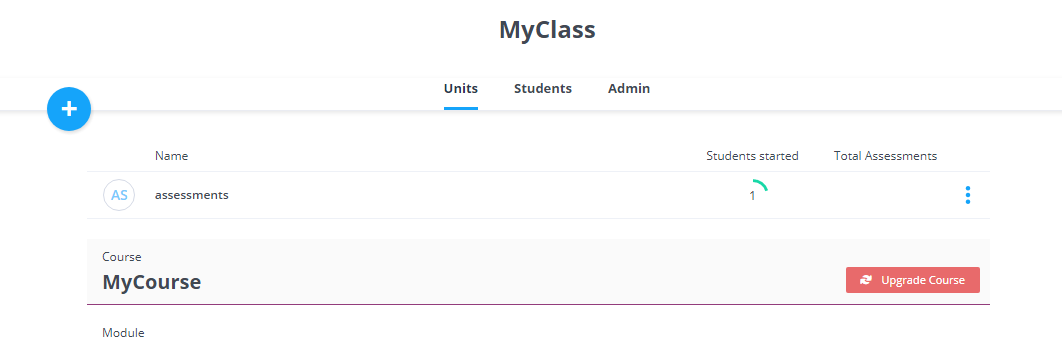
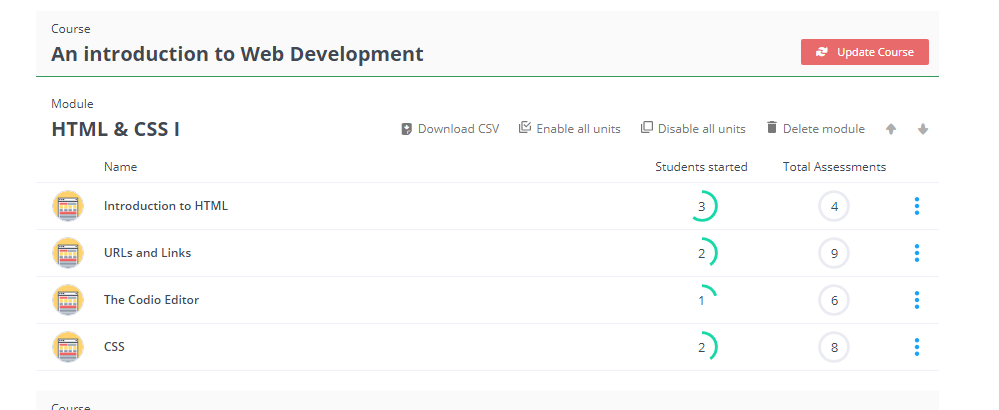
changelog #10082 #10092 #10335 #10336

diff --git a/source/docs/classes/unitmanagement/upgradecourse.html.md b/source/docs/classes/unitmanagement/upgradecourse.html.md
@@ -1,13 +1,13 @@
 ---
-title: Upgrade course
+title: Update course
 description: ""
 class_name: docs
 full_width: true
 ---
 
-If any updates to a course used in your class are detected, you can upgrade the unit to the latest version from the **Upgrade Course** button. The code workspace, other than the guides folder, is never updated as this can invalidate work for students who have already started the unit.
+If any updates to a course used in your class are detected, you can upgrade the unit to the latest version from the **Update Course** button. The code workspace, other than the guides folder, is never updated as this can invalidate work for students who have already started the unit.
 
-<img alt="Upgrade Course" src="/img/docs/class_administration/upgradecourse.png" class="simple"/>
+<img alt="Update Course" src="/img/docs/class_administration/upgradecourse.png" class="simple"/>
 
 Updates may be new units added to the course, a new version of the stack, updates for assessments in a guide or book, changes to the general guide content or a change in the order of units in the course. 
 
@@ -17,13 +17,13 @@ Most assessment changes can be safely upgraded but if you have altered the struc
 
 Any changes to guides content can be applied. You should be careful about making major structural changes as students who have already started the unit could be confused. The code workspace folder will not be impacted, so any student work in this folder will not be impacted.
 
-### Select units to upgrade
-A list of all modified units will be shown. You can select the units you wish to update. The **Upgrade Course** button will no longer be shown if updates have already been applied.
+### Select units to update
+A list of all modified units will be shown. You can select the units you wish to update. The **Update Course** button will no longer be shown if updates have already been applied.
 
 ### Stack updates
-If updates to the stack are detected and students have already started the unit(s) you can elect to update the stack as well as the guides content by pressing the **Upgrade Stack and Content** button.
+If updates to the stack are detected and students have already started the unit(s) you can elect to update the stack as well as the guides content by pressing the **Update Content and Stack** button.
 
-<img alt="Upgrade Stack" src="/img/docs/class_administration/stackupdate.png" class="simple"/>
+<img alt="Update Stack" src="/img/docs/class_administration/stackupdate.png" class="simple"/>
 However, **any data outside the code workspace folder will be lost for all students who have already started the unit**. 
 
 If there are no detected updates to the stack or no students have started the unit(s), this option will not be shown.

diff --git a/source/docs/courses/working-with.html.md b/source/docs/courses/working-with.html.md
@@ -39,6 +39,6 @@ Editing a unit **does not affect published course content or content assigned to
 
 1. **More edits to a unit**. After publishing, you may decide to make further changes. These changes do not form a part of the published course unit until you republish, so you can edit without concern for altering published content. 
 1. **Republish**. Having made more changes, you can publish the unit again in order to make those changes available to the course. However, publishing does not update units previously assigned to a class.
-1. **Update class**. If you had assigned a course module to a class and subsequently updated and published a unit within that module, then units within that module are not automatically updated in the class. You need to explicitly do this by going to the class. You should see a red [**Upgrade Course** button](/docs/classes/unitmanagement/upgradecourse). This allows you to selectively update units.
+1. **Update class**. If you had assigned a course module to a class and subsequently updated and published a unit within that module, then units within that module are not automatically updated in the class. You need to explicitly do this by going to the class. You should see a red [**Update Course** button](/docs/classes/unitmanagement/upgradecourse). This allows you to selectively update units.
 
 

diff --git a/source/docs/classes/unitmanagement/excludefiles.html.md b/source/docs/classes/unitmanagement/excludefiles.html.md
@@ -1,0 +1,30 @@
+---
+title: Excluding Files
+description: ""
+class_name: docs
+full_width: true
+---
+
+### Excluding files
+Files/folders may need to be excluded from students units. Such files may be 
+unused resources/logs and other files used when testing the unit prior to publishing.
+
+This can be handled by using `.unitignore` file in the source project and when published to a class, these files/folders will not be available to the students.
+
+Enter on a new line the file/folders to be excluded defining them relative to the location of the `.unitignore` file and defining folders with `/`
+
+For example if the `.unitignore` file is located in the project workspace and you wish to exclude
+
+- `testing` & `node_modules` folder
+- the file `checkscore.js` in the `views` folder
+- the files `app.js` and `README.md` 
+
+the `.codioignore` file will be
+
+```
+/testing
+/node_modules
+/views/checkscore.js
+app.js
+README.md
+```

diff --git a/source/docs/classes/unitmanagement/settings-info/reset-unit.html.md b/source/docs/classes/unitmanagement/settings-info/reset-unit.html.md
@@ -7,7 +7,7 @@ full_width: true
 
 **This option will destroy all student work.**
 
-In the event that a unit in your course/classes is updated and, for some reason, you cannot use the [Upgrade course](/docs/classes/unitmanagement/upgradecourse) option, you can reset it so **all** students, including those who have already started the unit, are updated with the new unit.
+In the event that a unit in your course/classes is updated and, for some reason, you cannot use the [Update course](/docs/classes/unitmanagement/upgradecourse) option, you can reset it so **all** students, including those who have already started the unit, are updated with the new unit.
 
 You can reset the unit for all your students by selecting either
 

diff --git a/source/docs/classes/unitmanagement/settings-info/updateunit.html.md b/source/docs/classes/unitmanagement/settings-info/updateunit.html.md
@@ -7,7 +7,7 @@ full_width: true
 
 ### Projects assigned to the class
 
-Individual units that were assigned from a regular project can be updated using the **Update unit** option. If you have added a unit from a course then you should use the **[Upgrade Course](/docs/classes/unitmanagement/upgradecourse/)** instead.
+Individual units that were assigned from a regular project can be updated using the **Update unit** option. If you have added a unit from a course then you should use the **[Update Course](/docs/classes/unitmanagement/upgradecourse/)** instead.
 
 Click on the 3 blue vertical dots and select **Update Unit**
 

diff --git a/source/docs/misc/changelog.html.md b/source/docs/misc/changelog.html.md
@@ -11,6 +11,13 @@ We do not report small bug fixes or issues that affect individual users, who we 
 `[I]` = Update or improvement
 `[F]` = New feature
 
+**April 2019**
+
+- `[I] [ 7th]`: Improve visibility of keyboard focus
+- `[I] [ 7th]`: Change wording `Upgrade` to `Update` for consistency of language 
+- `[F] [ 6th]`: Add ability to [exclude files](/docs/classes/unitmanagement/excludefiles/) from students units in a class
+- `[I] [ 4th]`: Update handling of teacher only pages in books
+
 **March 2019**
 
 - `[F] [31st]`: Empty Stack set to use Ubuntu 18.04. 

diff --git a/source/docs/courses/units/update-class.html.md b/source/docs/courses/units/update-class.html.md
@@ -1,5 +1,5 @@
 ---
-title: Upgrade course in class
+title: Update course in class
 class_name: docs
 full_width: true
 ---
